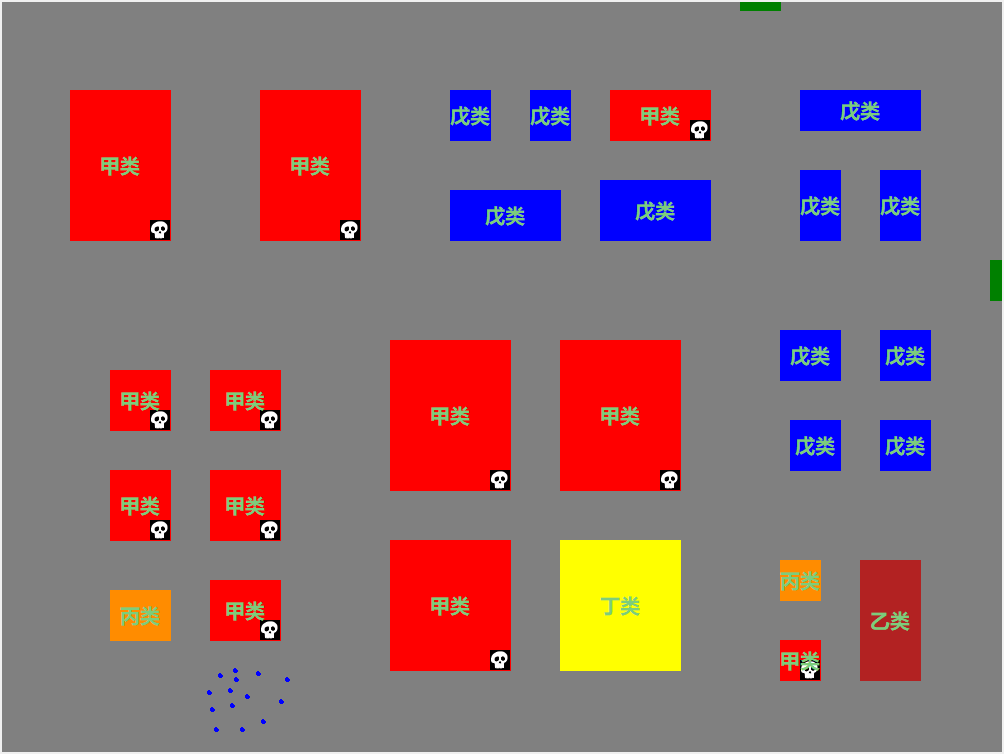
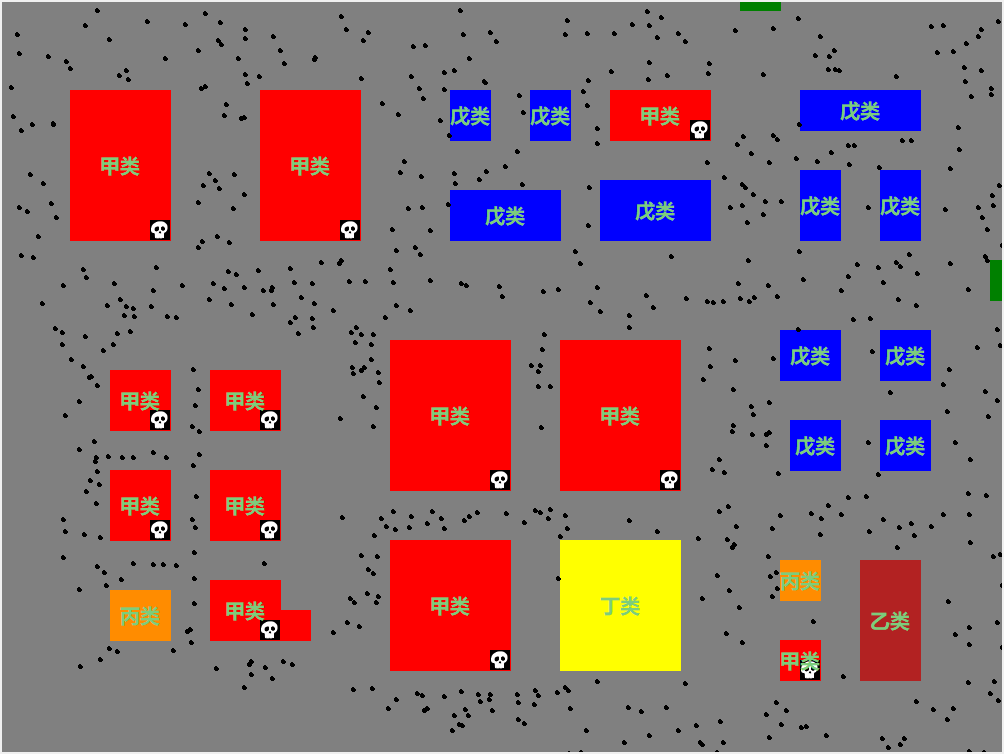
Add files via upload
文档更新11.30

diff --git a/化工厂疏散仿真.md b/化工厂疏散仿真.md
@@ -14,17 +14,18 @@
 
 #### 符号注释表
 
-| 符号             |         含义         |
-| :--------------- | :------------------: |
-| v~ix~，v~iy~     |  前元胞的x、y坐标值  |
-| v~ox~，v~oy~     | 邻居元胞的x、y坐标值 |
-| r                |       邻居半径       |
-| X~min~，Y~min~   | 建筑场景的左下角坐标 |
-| X~max~，Y~max~   | 建筑场景的右上角坐标 |
-| P~x~，P~y~       |     疏散人员坐标     |
-| X~smin~，Y~smin~ | 初始恐惧场左下角坐标 |
-| X~smax~，Y~smax~ | 初始恐惧场右上角坐标 |
-| S                |     模拟场景点集     |
+| 符号                               |          含义          |
+| :--------------------------------- | :--------------------: |
+| v~ix~，v~iy~                       |   前元胞的x、y坐标值   |
+| v~ox~，v~oy~                       |  邻居元胞的x、y坐标值  |
+| r                                  |        邻居半径        |
+| X~min~，Y~min~，X~max~，Y~max~     |   建筑场景的上下坐标   |
+| X~smin~，Y~smin~，X~smax~，Y~smax~ |  初始恐惧场的上下坐标  |
+| X~qmin~，Y~qmin~，X~qmax~，Y~qmax~ |   区域场景的上下坐标   |
+| Q                                  | 所有区域的上下坐标集合 |
+| P~x~，P~y~                         |      疏散人员坐标      |
+| S                                  |      模拟场景点集      |
+| K                                  |   扩散触发器随机变量   |
 
 #### 实现细节
 
@@ -97,6 +98,20 @@ $$
 
 其算法复杂度为O(n*m)，n和m分别为疏散空间的长宽。
 
+###### 危险区域的扩散
+
+考虑到化工厂的实际情况，在疏散仿真中，本文增加了危险扩散的算法，实现方式比较简单。扩散会以K的值为触发器进行触发，而K是一个关于时间t的固定分布的随机变量，其概率密度函数为：
+$$
+f(k)=
+\begin{cases}
+\varphi, t\geq 5\\
+0, 其他\\
+\end{cases}
+$$
+五秒过后的每一秒，其都已φ（在本文中取0.5）的概率进行扩散，在本文中，设置扩散一次就会停下。其扩散的坐标也在危险区域附近进行随机生成。其效果如下图：
+
+![4](.\img\4.png)
+
 ###### 疏散人员的设置
 
 人员的初始分布本文提供了两种不同的方式来设置人员的初始位置。
@@ -112,7 +127,7 @@ $$
 P_{y}=Y_{min}+int((Y_{max}-Y_{min}+1)\times R2)
 $$
 
-其中的P~x~，P~y~表示智能体的坐标，R1,R2为随机数，取值范围为[0,1)。在生成时也会对其坐标进行判断，防止生成在建筑物内部。
+其中的P~x~，P~y~表示智能体的坐标，R1，R2为随机数，取值范围为[0,1)。在生成时也会对其坐标进行判断，防止生成在建筑物内部。
 
 ```
 新建一个人物列表Plist
@@ -124,15 +139,34 @@ while 生成人数小于指定人数：
 
 （2）指定位置生成
 
-考虑到疏散模拟的全面性，本文还可供用户在界面上实时添加智能体。通过采集鼠标在canvas上的坐标位置，映射到势能地图网格中用于实现实时的智能体添加。效果如下图所示。 通过更改其颜色，可以更直观的展现人群中某些人的运动轨迹，方便之后对其进行行为的分析和观察。
-
-![4](.\img\4.png)
-
-<p align="center">图1-4 指定位置生成智能体演示</p>
+考虑到疏散模拟的全面性，本文还可供用户在界面上实时添加智能体。通过采集鼠标在canvas上的坐标位置，映射到势能地图网格中用于实现实时的智能体添加。同时通过更改其颜色，可以更直观的展现人群中某些人的运动轨迹，方便之后对其进行行为的分析和观察。
 
 （3）分区域生成
 
+考虑到实际的情况，人员并不是随机分布在整个厂区内部的，而是聚集在建筑附近。同时考虑到不同建筑的功能不同，人员的数量也不同，所以按照一定的比例在每个功能区进行人员的随机生成，分配的比例如下：
 
+|   厂区   | 行政区域 | 化验区域 | 仓库区域 | 储罐区域 | 车间区域 | 消防区域 | 机房三废区域 |
+| :------: | :------: | :------: | :------: | :------: | :------: | :------: | :----------: |
+| 人数比例 |   0.2    |   0.2    |   0.05   |   0.15   |   0.25   |   0.05   |     0.1      |
+
+其生成方式还是随机生成，公式与第一种方式类似：
+$$
+P_{x}=\sum_{q \in Q}X_{qmin}+int((X_{qmax}-X_{qmin}+1)\times R1)
+$$
+
+$$
+P_{y}=\sum_{q \in Q}Y_{qmin}+int((Y_{qmax}-Y_{qmin}+1)\times R2)
+$$
+
+其中各个符号的含义与（1）中类似。
+
+如果三种不同方式的生成效果如下图：
+
+| ![5](.\img\5-1.png) |  ![5](.\img\5-2.png)  |  ![5](.\img\5-3.png)  |
+| :-----------------: | :-----------------: | :-----------------: |
+| 随机生成 | 指定位置生成 | 按比例生成 |
+
+<p align="center">图1-4 不同方式生成智能体的效果演示</p>
 
 ###### 运动演化规则
 
@@ -157,7 +191,8 @@ f(x)=
 \begin{cases}
 random(1.1,1.5), h\le2\\
 random(0.9,1.1), h\le4\\
-random(0.7,0.9), h\le7\\
+random(0.7,1.0), h\le7\\
+random(0.6,0.7), h>7
 \end{cases}
 $$
 上述公式中的h为该智能体八邻域中的其余智能体总数。
@@ -174,17 +209,19 @@ $$
 
 下图是模拟中的截图：
 
-<img src=".\img\5.png" alt="5" style="zoom:50%;" />
+<img src=".\img\6.png" alt="5" style="zoom:50%;" />
 
 <p align="center">图2-1 演示图</p>
 
 在疏散模拟结束后，还会有热力图来显示疏散过程中的人群分布和路线。
 
-<img src=".\img\6.png" alt="6" style="zoom:50%;" />
+<img src=".\img\7.png" alt="6" style="zoom:50%;" />
 
 <p align="center">图2-2 最终疏散热力图</p>
 
 ###### 不同疏散情况的对比
 
 疏散仿真最重要的还是对于各个方式的疏散效果的对比，由此来为现实中的疏散提供直观的依据和借鉴的方式。因此，本文将对不同的疏散方式，不同的疏散效果进行对比。从而分析出其中的区别和一些值得注意的点。
+
+同时疏散和恐惧扩散疏散的情况对比：
 
